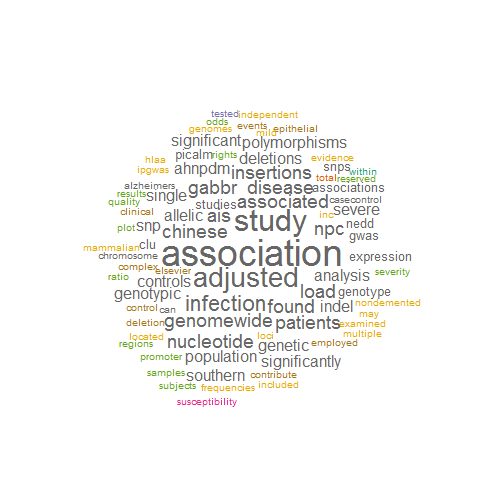
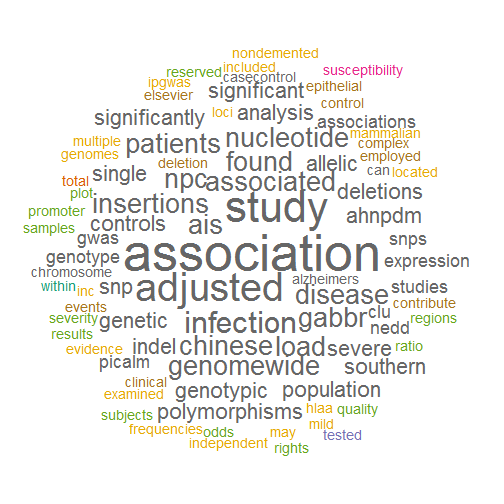
update

Changed region(s): [[0.0298, 0.0893, 0.9524, 0.9226]]

diff --git a/README.md b/README.md
@@ -1,19 +1,25 @@
 PubMed wordcloud
 ==============================
-Examples of how to create a word cloud of the abstract of your publications in PubMed
+Examples of how to create a word cloud using abstracts in PubMed
 
-updated on Mon Sep 16 12:12:38 2013
+updated on Tue Sep 24 17:18:48 2013
 
-**PubMedWordcloud** is avaliable on [CRAN](http://cran.r-project.org/web/packages/PubMedWordcloud/index.html)
+**PubMedWordcloud** is avaliable on [CRAN](http://cran.r-project.org/web/packages/PubMedWordcloud/index.html) and [GitHub](https://github.com/felixfan/PubMedWordcloud)
 
-
-```r
-library(PubMedWordcloud)  # you need to install it first
+```
+install.packages("PubMedWordcloud",dependencies=TRUE)
 ```
 
 
-1. retrieve PMIDs from PubMed
-----------------------------------
+```r
+library(PubMedWordcloud)
+```
+
+
+1. wordcloud of my publications
+--------------------------------------
+### 1.1 retrieve PMIDs from PubMed
+
 Since my first paper was published in 2007, I will retrieve all PMIDs of my paper from 2007 to this year (2013). I used both 'Yan-Hui Fan' and 'Yanhui Fan' as my name, so I assigned PMIDs for these two names to 'pmid1' and 'pmid2', respectively.
 
 
@@ -34,8 +40,8 @@ pmid2
 
 There are six PMIDs in 'pmid1' and two PMIDs in 'pmid2'. 
 
-2. edit PMIDs
---------------------------------
+### 1.2 edit PMIDs
+
 Note that 'pmid1' and 'pmid2' are vectors, so it is easy to add or delete PMIDs to 'pmid1' and 'pmid2', or combine them. I also write a function to do it, in case you do not want to find out how to do it.   
 
 PMID "22698742" in 'pmid1' and "20576513" in 'pmid2' are published by others (have the same name with me). So I want to exclude them and then combine 'pmid1' and 'pmid2'.   
@@ -54,16 +60,16 @@ pmids = editPMIDs(x = pmids1, y = pmids2, method = "add")
 
 **Note: only unique PMIDs were kept**
 
-3. download abstracts
-------------------------------
+### 1.3 download abstracts
+
 
 ```r
 abstracts = getAbstracts(pmids)
 ```
 
 
-4. clean abstracts
------------------------------
+### 1.4 clean abstracts
+
 clean data using paackage {tm}: remove Punctuations, remove Numbers, Translate characters to lower or upper case, remove stopwords, remove user specified words, Stemming words.   
 
 
@@ -72,8 +78,7 @@ cleanAbs = cleanAbstracts(abstracts)
 ```
 
 
-5. plot wordcloud using 'plotWordCloud'
------------------------------------------
+### 1.5 plot wordcloud using 'plotWordCloud'
 
 Plot with dafault parameters   
 
@@ -115,11 +120,11 @@ plotWordCloud(cleanAbs2)
 
 **Note: ** 'plotWordCloud' uasually will generate a lot of warnings. Many words could not be fit on page. 'pmWordCloud' can adjust the position and plot all words.
 
-6.plot wordcloud using 'pmWordCloud'
----------------------------------------
+### 1.6 plot wordcloud using 'pmWordCloud'
+
 
 ```r
-pmWordCloud(cleanAbs, scale = 0.2)
+pmWordCloud(cleanAbs, scale = 0.4)
 ```
 
 ![plot of chunk unnamed-chunk-10](figure/unnamed-chunk-10.png) 
@@ -127,7 +132,7 @@ pmWordCloud(cleanAbs, scale = 0.2)
 
 
 ```r
-pmWordCloud(cleanAbs, rot.per = 0, scale = 0.2)
+pmWordCloud(cleanAbs, rot.per = 0, scale = 0.4)
 ```
 
 ![plot of chunk unnamed-chunk-11](figure/unnamed-chunk-11.png) 
@@ -136,25 +141,53 @@ pmWordCloud(cleanAbs, rot.per = 0, scale = 0.2)
 
 ```r
 colors = colSets(type = "Set1")
-pmWordCloud(cleanAbs, rot.per = 0, colors = colors, scale = 0.2)
+pmWordCloud(cleanAbs, rot.per = 0, colors = colors, scale = 0.4)
 ```
 
 ![plot of chunk unnamed-chunk-12](figure/unnamed-chunk-12.png) 
 
 
-Another example plot.    
+2. wordcloud of study about AIS (adolescent idiopathic scoliosis)
+----------------------------------
+
+```r
+pmids = getPMIDsByKeyWords(keys = "adolescent idiopathic scoliosis", dFrom = 2010, 
+    dTo = 2013)
+```
+
+```r
+abstracts = getAbstracts(pmids)
+cleanAbs = cleanAbstracts(abstracts)
+pmWordCloud(cleanAbs, rot.per = 0, scale = 0.4, min.freq = 3)
+```
+
 ![plot of chunk unnamed-chunk-13](figure/unnamed-chunk-13.png) 
 
 
-Only plot 100 words (most frequent words).   
+3. wordcloud of study about AD (Alzheimer's disease)
+----------------------------------
+
+```r
+pmids = getPMIDsByKeyWords(keys = "Alzheimer's disease", dFrom = 2013, dTo = 2013, 
+    n = 100)
+```
+
+```r
+abstracts = getAbstracts(pmids)
+cleanAbs = cleanAbstracts(abstracts)
+pmWordCloud(cleanAbs, rot.per = 0, scale = 0.4, min.freq = 8)
+```
+
 ![plot of chunk unnamed-chunk-14](figure/unnamed-chunk-14.png) 
 
 
-7. References
+4. References
 -----------------
 [Shiny Pubmed Word Clouds](http://www.vesnam.com/Rblog/pubmedwordcloud/)    
 [wordcloud](http://cran.r-project.org/web/packages/wordcloud/index.html)   
 [GOsummaries: Word cloud summaries of GO enrichment analysis](http://cran.r-project.org/web/packages/GOsummaries/index.html)   
-[How I used R to create a word cloud, step by step](http://georeferenced.wordpress.com/2013/01/15/rwordcloud/) 
+[How I used R to create a word cloud, step by step](http://georeferenced.wordpress.com/2013/01/15/rwordcloud/)   
+[NCBI](http://www.ncbi.nlm.nih.gov/books/NBK25500/)   
+
 
 
